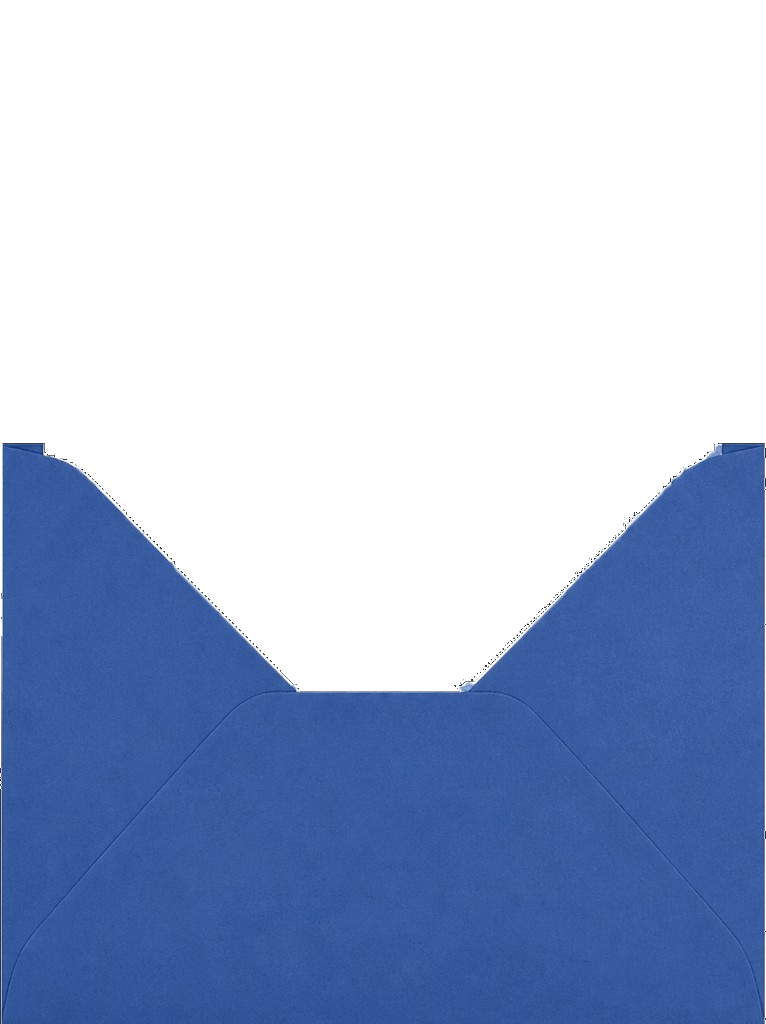
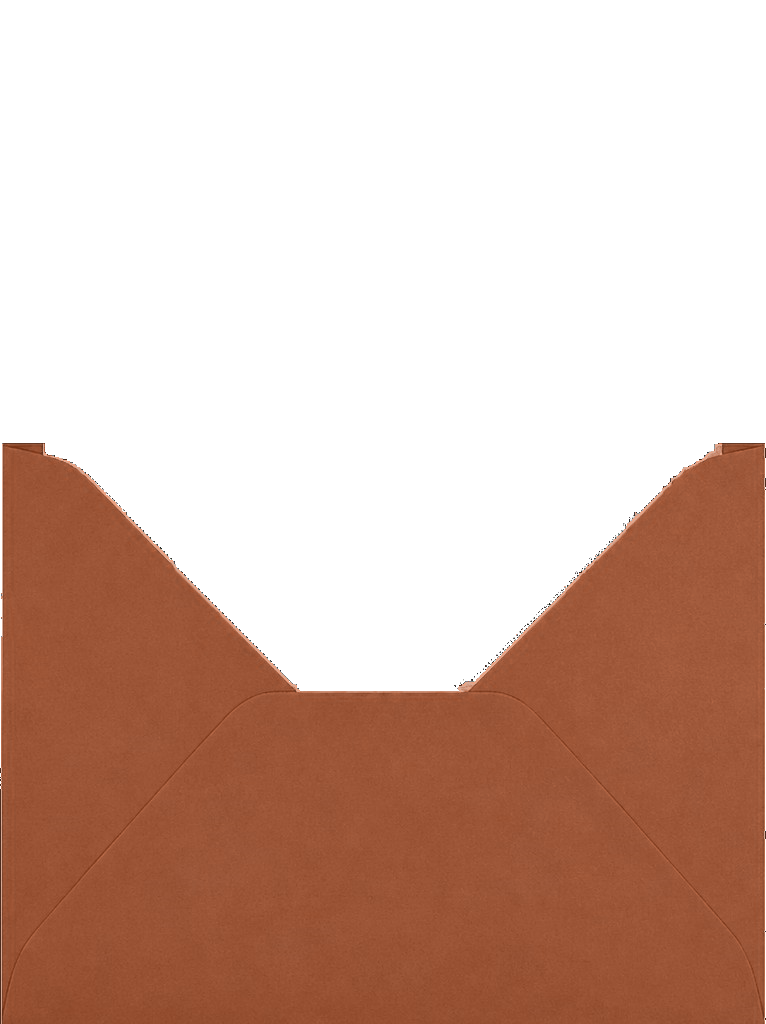
Corrige RSVP, noms Luc et Glenne, et enveloppe terracotta

diff --git a/src/app/App.tsx b/src/app/App.tsx
@@ -53,7 +53,7 @@ const WEDDING = {
   soireeDetail: "Akanda Pavés, après l'École les Kikinous",
   flight: "LG041226",
   theme: "Raffiné Harmonieux",
-  rsvpDeadline: "20 Août 2026",
+  rsvpDeadline: "10 Novembre 2026",
 };
 
 const COUPLE_PHOTOS = [
@@ -111,7 +111,7 @@ function Envelope({
     <div className="envelope-open relative mx-auto w-full">
       <div className="envelope-open-stack">
         <img
-          src="/decor/envelope-haut.png"
+          src="/decor/envelope-haut.png?v=2"
           alt=""
           draggable={false}
           className="envelope-haut"
@@ -140,7 +140,7 @@ function Envelope({
         </button>
 
         <img
-          src="/decor/envelope-bas.png"
+          src="/decor/envelope-bas.png?v=2"
           alt=""
           draggable={false}
           className="envelope-bas"
@@ -410,7 +410,7 @@ function ClosedSplash({ onOpen }: { onOpen: () => void }) {
         Vous êtes invité par
       </p>
       <h1 className="mb-12 text-5xl text-[#3b2a1f]" style={fontScript}>
-        {WEDDING.bride} &amp; {WEDDING.groom}
+        {WEDDING.groom} &amp; {WEDDING.bride}
       </h1>
       <Envelope open={false} onOpen={onOpen} />
       <button
@@ -515,7 +515,7 @@ function OpenedInvitation({
       <footer className="invite-closing">
         <p className="invite-closing-kicker">Amoureusement vôtre,</p>
         <h2 className="invite-closing-names">
-          {WEDDING.bride} &amp; {WEDDING.groom}
+          {WEDDING.groom} &amp; {WEDDING.bride}
         </h2>
         <Countdown compact />
         <img
@@ -693,7 +693,6 @@ function RsvpScreen({
 }) {
   const [name, setName] = useState("");
   const [mairie, setMairie] = useState(false);
-  const [eglise, setEglise] = useState(false);
   const [soiree, setSoiree] = useState(false);
   const [note, setNote] = useState("");
   const [error, setError] = useState("");
@@ -706,7 +705,7 @@ function RsvpScreen({
       setError("Merci d’indiquer votre nom complet.");
       return;
     }
-    if (!mairie && !eglise && !soiree) {
+    if (!mairie && !soiree) {
       setError("Merci de sélectionner au moins un événement.");
       return;
     }
@@ -717,7 +716,7 @@ function RsvpScreen({
       await submitRsvp({
         name: trimmed,
         mairie,
-        eglise,
+        eglise: false,
         soiree,
         note: note.trim(),
       });
@@ -733,7 +732,6 @@ function RsvpScreen({
 
   const eventOptions = [
     { key: "mairie", label: "Je serai à la mairie", checked: mairie, set: setMairie },
-    { key: "eglise", label: "Je serai à l'église", checked: eglise, set: setEglise },
     { key: "soiree", label: "Je serai à la soirée", checked: soiree, set: setSoiree },
   ] as const;
 

diff --git a/src/styles/motion.css b/src/styles/motion.css
@@ -10,9 +10,21 @@
   }
 }
 
+@keyframes invite-soft-reveal-opacity {
+  from { opacity: 0; }
+  to { opacity: 1; }
+}
+
 @media (prefers-reduced-motion: no-preference) {
   img {
     animation: invite-soft-reveal 0.9s cubic-bezier(0.22, 1, 0.36, 1) both;
+  }
+
+  /* Keep envelope terracotta drop-shadows (don't leave saturate filter stuck) */
+  .envelope-haut,
+  .envelope-bas,
+  .envelope-open-seal {
+    animation: invite-soft-reveal-opacity 0.9s cubic-bezier(0.22, 1, 0.36, 1) both;
   }
 
   /* Closed splash — envelope entrance */
